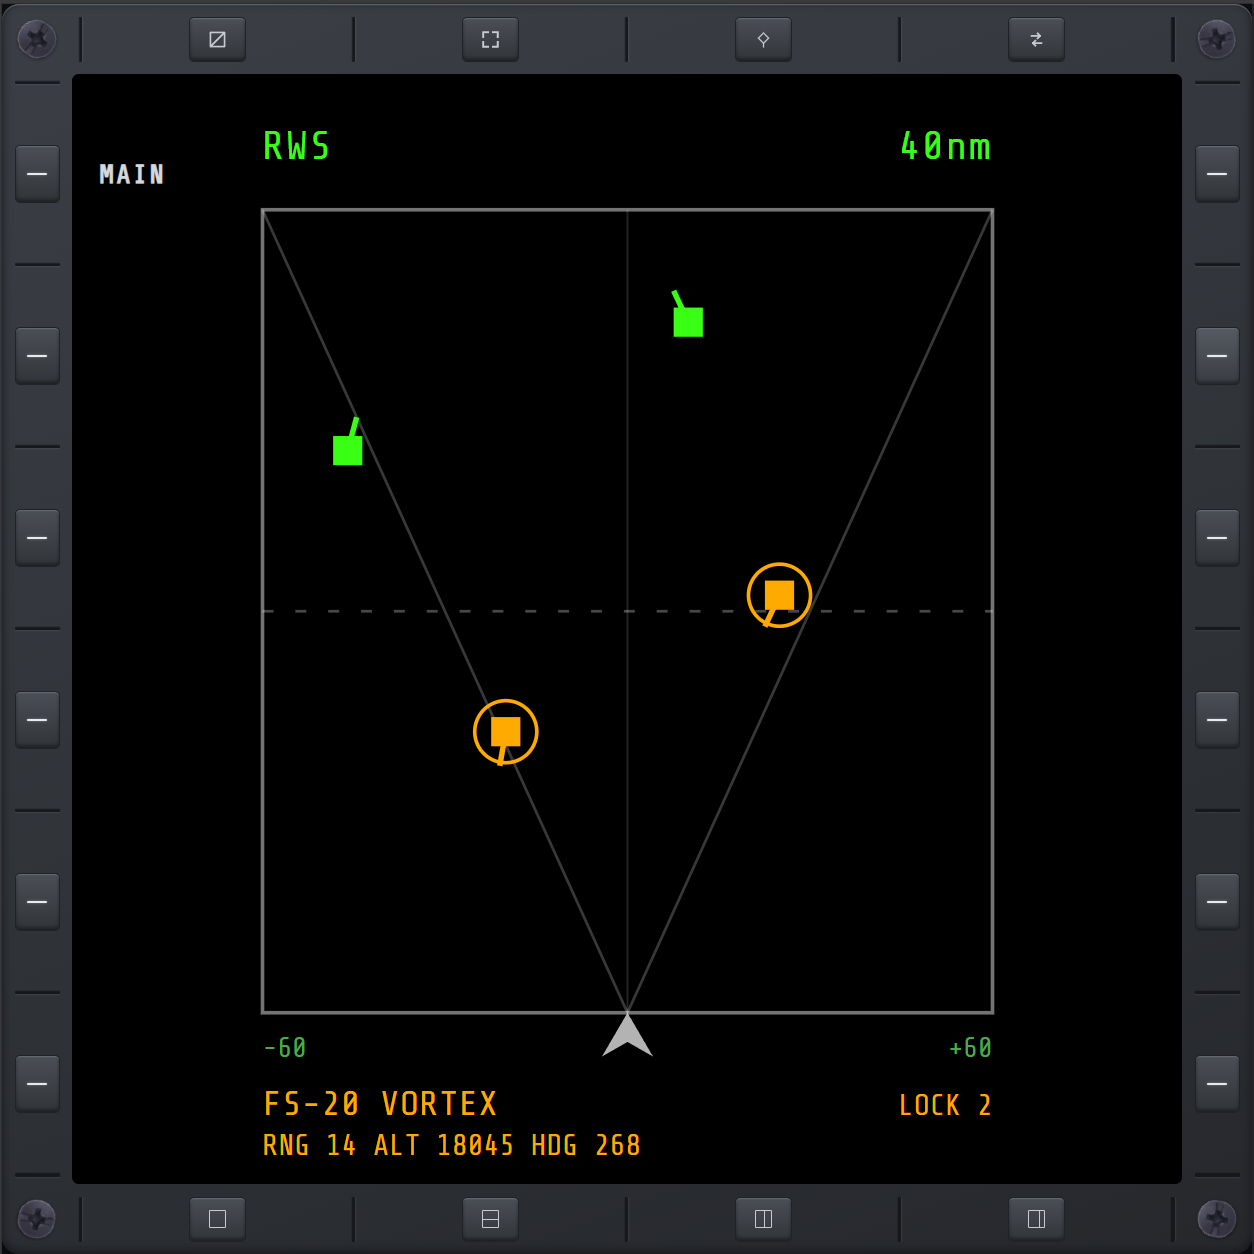
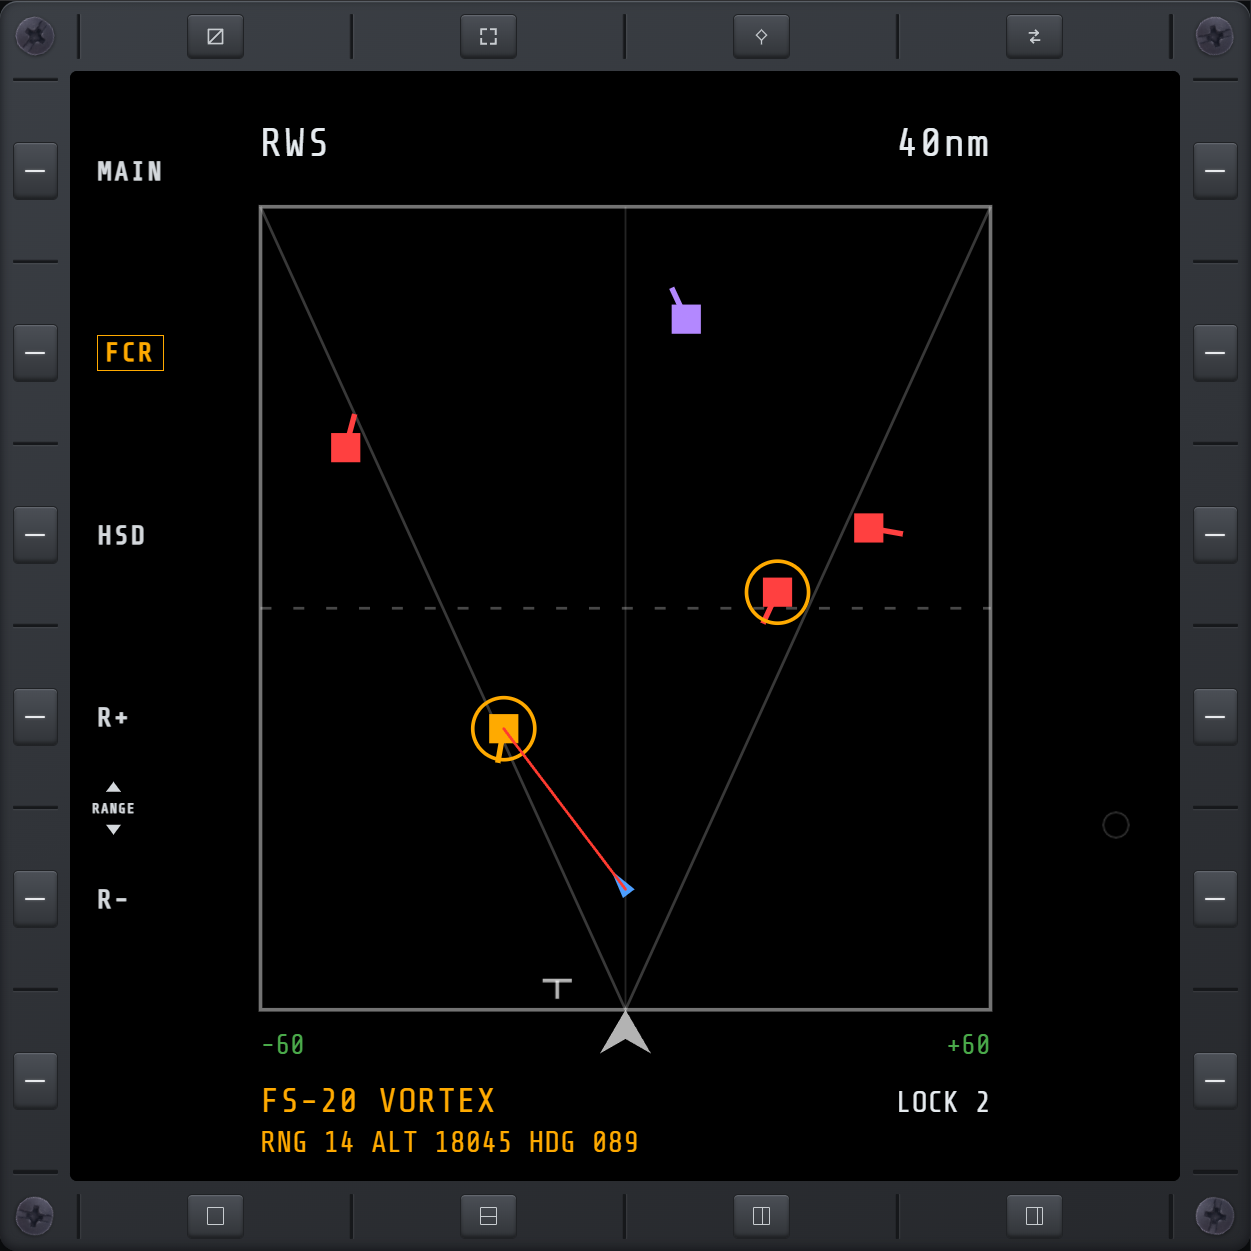
man/rdr.md: document the FCR/HSD split, CEN/DEP, and new lock colors
RDR is now a hub for two sibling pages (FCR, HSD), reached the same
way MD/HUD-KEY-LYT already work:

- FCR: updated for red (not green) own-radar contacts, and the new
  focused-vs-other-lock distinction (only the focused lock is amber;
  any other simultaneous lock keeps its ordinary color with just a
  ring around it).
- New HSD section: the 360-degree datalink picture, its own contact
  coloring (shared with FCR), the radar-coverage-cone overlay, and
  the CEN/DEP display modes (ring count/spacing, range ladders, and
  that switching modes carries the selected range across instead of
  resetting it).
- "When a target is locked" and "Locking a target" rewritten to cover
  both pages and the shared target set (FCR/HSD/TGT all lock the same
  contact).
- Screenshots: RDR.png now shows the FCR page (user-updated); added
  HSD.png (CEN) and HSD_DEP.png (DEP).

diff --git a/man/rdr.md b/man/rdr.md
@@ -1,11 +1,23 @@
 # RDR
 
-A radar scope (an F-16-style B-scope) showing your own ownship at the bottom, bearing spread
-left-right, and range stretching upward toward the top of the screen.
+A radar-family hub with two sibling pages, reached from the same **RDR** destination:
 
-![RDR page](images/RDR.png)
+- **[FCR](#fcr)** — Fire Control Radar, an F-16-style B-scope showing what your own radar sees in
+  front of you.
+- **[HSD](#hsd)** — Horizontal Situation Display, a 360-degree datalink picture of the air
+  situation around your aircraft.
 
-## Reading the scope
+Switch between them with the **FCR** / **HSD** bezel keys — both stay one press away from the
+other, and from MAIN.
+
+## FCR
+
+Your own ownship sits at the bottom, bearing spread left-right, and range stretching upward toward
+the top of the screen.
+
+![FCR page](images/RDR.png)
+
+### Reading the scope
 
 - **Top-left label** — always reads `RWS`. Cosmetic, matching the game's own radar display; it
   doesn't reflect an actual mode.
@@ -13,14 +25,17 @@ left-right, and range stretching upward toward the top of the screen.
   is on.
 - **Contacts** — colored bricks with a short velocity-vector stub showing which way they're
   heading:
-  - **Green** — detected by your own radar.
+  - **Red** — detected by your own radar.
   - **Purple** — datalink-only: shared by your faction, not currently painted by your own radar.
-  - **Amber**, with a ring around it — locked.
+  - **Amber**, with a ring around it — the lock currently shown in the readout below (see
+    [When a target is locked](#when-a-target-is-locked)).
+  - Any *other* simultaneous lock keeps its ordinary red or purple — only a ring around it marks
+    it as locked, since it isn't the one being read out right now.
 - **Your own missiles** — once one of your AA missiles goes pitbull (active seeker, no longer
   needing your radar), it shows as a blue dart pointed at its target, with a flickering line
   connecting the two.
 
-## The numbers on screen
+### The numbers on screen
 
 - **Top-right** — the selected display range (see [Changing range](#changing-range) below), in
   nautical miles or kilometers depending on your game's unit setting.
@@ -28,29 +43,71 @@ left-right, and range stretching upward toward the top of the screen.
   degrees left/right off the nose (e.g. `-30` / `+30`). Everything plotted on the scope falls
   within this cone; a contact outside it isn't shown at all.
 
+## HSD
+
+A 360-degree picture of the air situation around your aircraft, built from your faction's shared
+datalink rather than your own radar's cone — it shows contacts your radar can't currently see, as
+long as someone else's does.
+
+![HSD page, CEN mode](images/HSD.png)
+
+- **Ownship** — the small white arrow, nose always pointing up the screen.
+- **Range rings** — concentric dark-pink circles centered on ownship; see
+  [CEN and DEP modes](#cen-and-dep-modes) for what each ring is worth.
+- **Radar coverage cone** — the teal wedge overlaid forward of ownship, when your own radar is on.
+  It's the same cone FCR itself shows, just drawn on HSD's wider picture instead — a reminder of
+  how much of what you're seeing here your own radar could also reach.
+- **Contacts** — same meaning and colors as FCR's: red (your own radar), purple (datalink-only),
+  amber with a ring (the focused lock), or their ordinary color with just a ring (any other lock).
+
+### CEN and DEP modes
+
+The **MODE** bezel key toggles two display formats, matching the real F-16 HSD:
+
+- **CEN (Centered)** — ownship sits in the middle of the display. Four range rings, each a quarter
+  of the selected range (25/50/75/100%).
+- **DEP (Depressed)** — ownship moves down near the bottom of the display, trading picture behind
+  you for a much larger picture ahead on the same screen. Three range rings instead of four, at a
+  third and two-thirds of the selected range plus the outer edge.
+
+![HSD page, DEP mode](images/HSD_DEP.png)
+
+Switching modes carries your selected range across with it — CEN's 40nm and DEP's 60nm are treated
+as the same setting, not two independent ones, so toggling MODE doesn't reset your range. DEP's
+range options reach further than CEN's (up to 240nm vs. 160nm) since there's more forward screen
+space to use at the biggest scale.
+
 ## When a target is locked
 
-The bottom of the screen fills in with your **first** locked contact (if you have several locked
-at once, this always shows the same one — not whichever you locked most recently):
+Both FCR and HSD fill their bottom readout in with the same information, for whichever lock is
+currently focused:
 
 - **Name** — the contact's identifying label, large and centered.
 - **RNG** — its range from you.
 - **ALT** — its altitude.
 - **HDG** — its heading, as a 3-digit compass bearing (e.g. `270`), not relative to your own nose.
-- **LOCK** — a count of every contact currently locked, not just the one shown above.
+- **LOCK** — a count of every contact currently locked, not just the focused one.
+- HSD additionally shows **LINK**, a count of every datalink contact currently on screen.
+
+If you have more than one contact locked at once, only the focused one is shown here and drawn in
+amber — the rest still carry their lock ring, just in their ordinary color, since they aren't the
+one being read out. There's no way yet to change which lock is focused; a control for that is
+planned.
 
 Range and altitude use the same unit setting as the rest of the game (nm/ft or km/m).
 
 ## Locking a target
 
-Click or tap directly on a contact to lock it; click again to unlock. The same works with a HOTAS
-[PAD cursor](keybinds.md#pad-cursor) aimed between its two acquisition bars and Select pressed —
+Click or tap directly on a contact to lock it; click again to unlock — on either page. The same
+works with a HOTAS [PAD cursor](keybinds.md#pad-cursor) aimed at the contact and Select pressed —
 that needs the PAD cursor's binds (Cursor Up/Down/Left/Right/Select, and the two axis binds) set
-up first on the [KEY](keybinds.md) page.
+up first on the [KEY](keybinds.md) page. FCR and HSD share the same lock — locking a contact from
+either page locks it everywhere, including [TGT](tgt.md).
 
 ## Changing range
 
-**R+ / R−** step the display range in and out — a fraction of the radar's true max range, not a
-fixed distance, so it always fills the scope regardless of which radar you're flying with. Your
-choice is remembered across page reloads. Pushing the PAD cursor past the scope's top or bottom
-edge steps the range the same way.
+**R+ / R−** step the display range in and out. On FCR this is a fraction of the radar's true max
+range, not a fixed distance, so it always fills the scope regardless of which radar you're flying
+with. On HSD it steps through the fixed nautical-mile ladder for whichever mode (CEN/DEP) is
+active. Your choice is remembered across page reloads, per page. On FCR, pushing the PAD cursor
+past the scope's top or bottom edge also steps the range the same way as R+/R-.
